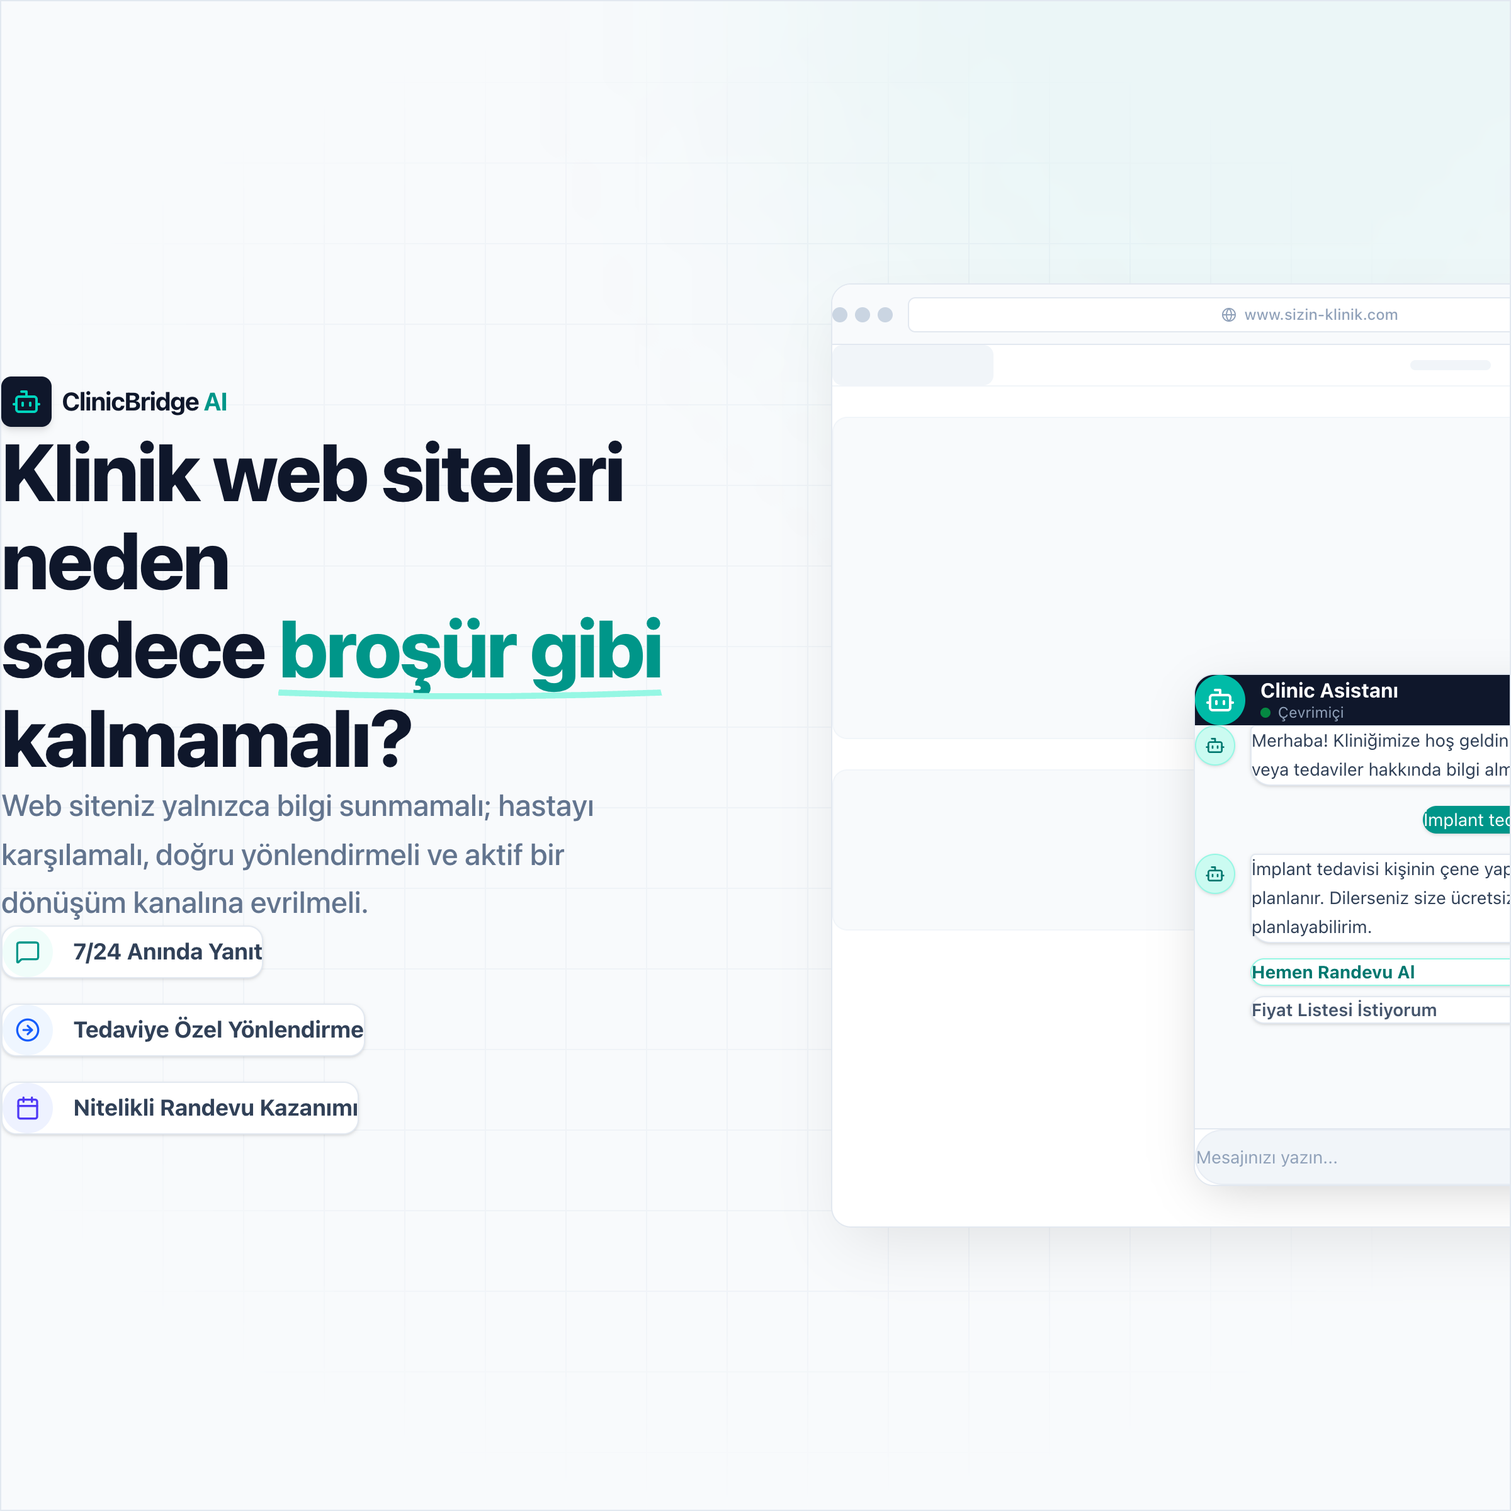
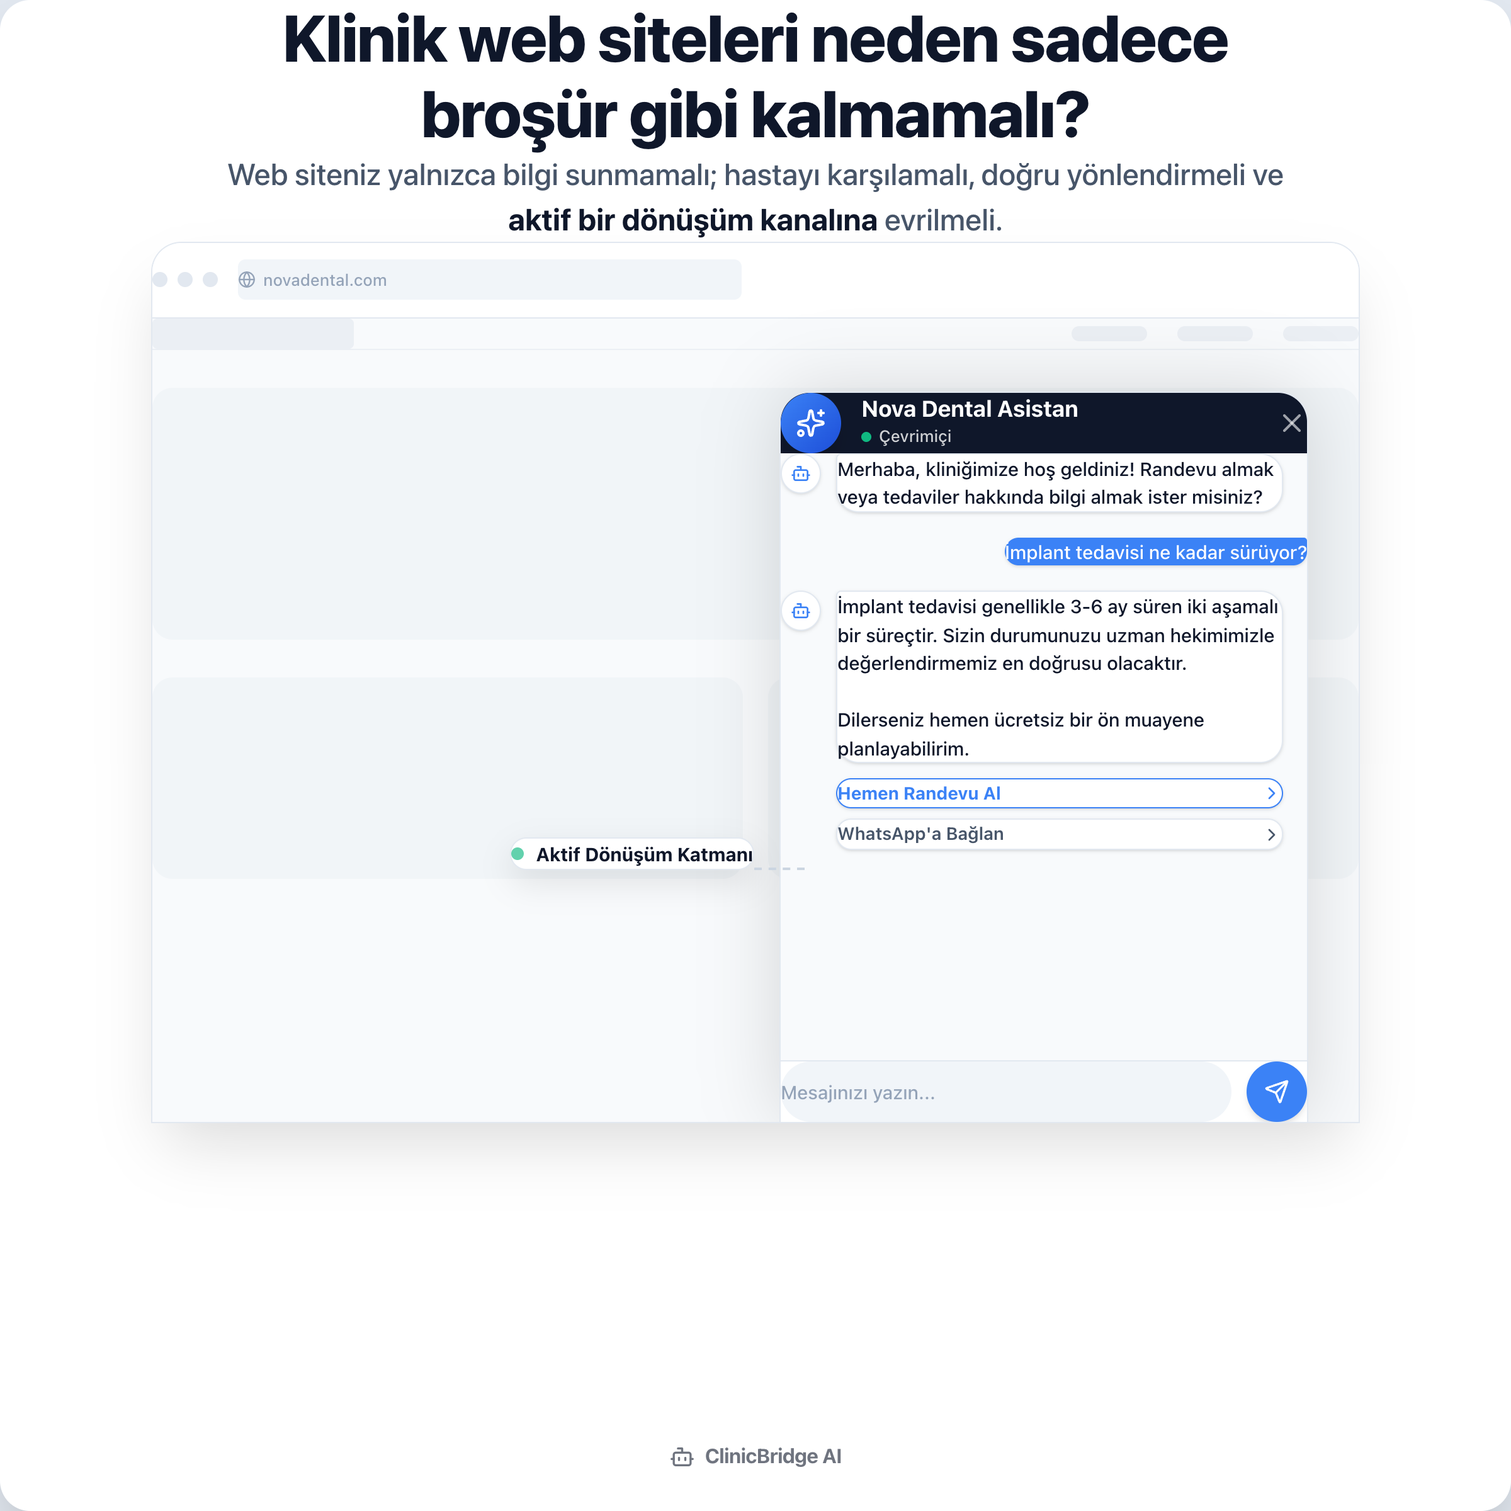
Redesign ClinicBridge AI social posts in clean product-marketing style

diff --git a/app/social-posts/page.tsx b/app/social-posts/page.tsx
@@ -1,183 +1,161 @@
 import React from 'react';
-import { Bot, MessageSquare, Clock, ShieldCheck, ArrowRight, Calendar, Layout, Search, Users, UserPlus, CheckCircle, Smartphone, Activity, ArrowRightCircle, ChevronRight, X, Send, Menu, Phone, Globe } from 'lucide-react';
+import { Bot, MessageSquare, Clock, ShieldCheck, ArrowRight, Calendar, Layout, Search, Users, UserPlus, CheckCircle, Smartphone, Activity, ArrowRightCircle, ChevronRight, X, Send, Menu, Phone, Globe, Sparkles } from 'lucide-react';
 
 export default function SocialPostsPage() {
   return (
-    <div className="bg-slate-100 min-h-screen p-10 flex flex-col items-center gap-16 font-sans">
+    <div className="bg-slate-200 min-h-screen p-10 flex flex-col items-center gap-16 font-sans">
       
-      {/* POST 1: Broşür Olmayan Web Sitesi - Light Premium SaaS Style */}
-      <div id="post-1" className="w-[1200px] h-[1200px] shrink-0 bg-[#F8FAFC] relative overflow-hidden flex border border-slate-200 shadow-sm">
+      {/* POST 1: Broşür Olmayan Web Sitesi - EXACT TOP-DOWN PRODUCT STYLE */}
+      <div id="post-1" className="w-[1200px] h-[1200px] shrink-0 bg-white relative flex flex-col items-center pt-[100px] rounded-3xl overflow-hidden shadow-2xl">
         
-        {/* Subtle Background Pattern */}
-        <div className="absolute inset-0 bg-[linear-gradient(to_right,#e2e8f0_1px,transparent_1px),linear-gradient(to_bottom,#e2e8f0_1px,transparent_1px)] bg-[size:4rem_4rem] [mask-image:radial-gradient(ellipse_60%_50%_at_50%_50%,#000_70%,transparent_100%)] opacity-40"></div>
-        <div className="absolute -top-[400px] -right-[200px] w-[800px] h-[800px] bg-teal-500/5 rounded-full blur-[100px] pointer-events-none"></div>
-
-        {/* LEFT COLUMN: Content */}
-        <div className="w-[55%] h-full z-10 flex flex-col justify-center pl-20 pr-10">
-          
-          {/* Logo / Brand */}
-          <div className="flex items-center gap-2 mb-10">
-            <div className="w-10 h-10 rounded-lg bg-slate-900 flex items-center justify-center shadow-md">
-              <Bot className="w-6 h-6 text-teal-400" />
-            </div>
-            <span className="text-slate-900 text-[20px] font-bold tracking-tight">ClinicBridge <span className="text-teal-600">AI</span></span>
-          </div>
-
-          {/* Heading */}
-          <h1 className="text-slate-900 text-[64px] font-extrabold leading-[1.1] mb-8 tracking-tight">
-            Klinik web siteleri neden <br/>
-            sadece <span className="text-teal-600 relative">broşür gibi
-              <svg className="absolute w-full h-3 -bottom-1 left-0 text-teal-200" viewBox="0 0 100 10" preserveAspectRatio="none"><path d="M0 5 Q 50 10 100 5" stroke="currentColor" strokeWidth="4" fill="transparent"/></svg>
-            </span> kalmamalı?
+        {/* TOP: Header & Subtitle */}
+        <div className="flex flex-col items-center text-center px-20 z-10 w-full max-w-[1000px]">
+          <h1 className="text-[#0f172a] text-[52px] font-[800] leading-[1.15] tracking-[-1px] mb-6">
+            Klinik web siteleri neden sadece <br/> broşür gibi kalmamalı?
           </h1>
-
-          {/* Description */}
-          <p className="text-slate-500 text-[24px] leading-[1.6] mb-12 font-medium max-w-[500px]">
-            Web siteniz yalnızca bilgi sunmamalı; hastayı karşılamalı, doğru yönlendirmeli ve aktif bir dönüşüm kanalına evrilmeli.
+          <p className="text-[#475569] text-[24px] font-[500] leading-[1.5] max-w-[850px]">
+            Web siteniz yalnızca bilgi sunmamalı; hastayı karşılamalı, doğru yönlendirmeli ve <span className="font-[700] text-[#0f172a]">aktif bir dönüşüm kanalına</span> evrilmeli.
           </p>
+        </div>
 
-          {/* Feature List */}
-          <div className="flex flex-col gap-5">
-            <div className="flex items-center gap-4 bg-white px-5 py-4 rounded-xl border border-slate-200 shadow-sm w-fit">
-              <div className="w-10 h-10 rounded-full bg-teal-50 flex items-center justify-center shrink-0">
-                <MessageSquare className="w-5 h-5 text-teal-600" />
+        {/* BOTTOM: Realistic Product UI Mockups */}
+        <div className="mt-[80px] w-full flex-1 relative flex justify-center items-start">
+          
+          {/* Main Website Mockup */}
+          <div className="w-[960px] h-[700px] bg-[#f8fafc] rounded-t-[24px] border border-[#e2e8f0] shadow-[0_25px_50px_-12px_rgba(0,0,0,0.15)] flex flex-col relative overflow-hidden">
+            
+            {/* Browser Header */}
+            <div className="h-[60px] bg-white border-b border-[#e2e8f0] flex items-center px-[24px] gap-[16px] shrink-0">
+              <div className="flex gap-[8px]">
+                <div className="w-[12px] h-[12px] rounded-full bg-[#e2e8f0]"></div>
+                <div className="w-[12px] h-[12px] rounded-full bg-[#e2e8f0]"></div>
+                <div className="w-[12px] h-[12px] rounded-full bg-[#e2e8f0]"></div>
               </div>
-              <span className="text-slate-700 font-bold text-lg">7/24 Anında Yanıt</span>
-            </div>
-            <div className="flex items-center gap-4 bg-white px-5 py-4 rounded-xl border border-slate-200 shadow-sm w-fit">
-              <div className="w-10 h-10 rounded-full bg-blue-50 flex items-center justify-center shrink-0">
-                <ArrowRightCircle className="w-5 h-5 text-blue-600" />
+              <div className="flex-1 max-w-[400px] bg-[#f1f5f9] h-[32px] rounded-[6px] flex items-center px-[16px]">
+                <span className="text-[#94a3b8] text-[13px] font-[500] flex items-center gap-[6px]">
+                  <Globe className="w-[14px] h-[14px]"/> novadental.com
+                </span>
               </div>
-              <span className="text-slate-700 font-bold text-lg">Tedaviye Özel Yönlendirme</span>
             </div>
-            <div className="flex items-center gap-4 bg-white px-5 py-4 rounded-xl border border-slate-200 shadow-sm w-fit">
-              <div className="w-10 h-10 rounded-full bg-indigo-50 flex items-center justify-center shrink-0">
-                <Calendar className="w-5 h-5 text-indigo-600" />
+
+            {/* Faint Website Content Background */}
+            <div className="flex-1 p-[40px] flex flex-col gap-[30px] opacity-[0.3]">
+              <div className="flex justify-between items-center pb-[20px] border-b border-[#cbd5e1]">
+                <div className="w-[160px] h-[24px] bg-[#cbd5e1] rounded-[4px]"></div>
+                <div className="flex gap-[24px]">
+                  <div className="w-[60px] h-[12px] bg-[#cbd5e1] rounded-full"></div>
+                  <div className="w-[60px] h-[12px] bg-[#cbd5e1] rounded-full"></div>
+                  <div className="w-[60px] h-[12px] bg-[#cbd5e1] rounded-full"></div>
+                </div>
               </div>
-              <span className="text-slate-700 font-bold text-lg">Nitelikli Randevu Kazanımı</span>
+              <div className="w-full h-[200px] bg-[#e2e8f0] rounded-[16px]"></div>
+              <div className="flex gap-[20px]">
+                <div className="flex-1 h-[160px] bg-[#e2e8f0] rounded-[16px]"></div>
+                <div className="flex-1 h-[160px] bg-[#e2e8f0] rounded-[16px]"></div>
+              </div>
             </div>
+
+            {/* THE AI LAYER (Realistic ClinicBridge Widget) */}
+            <div className="absolute right-[40px] bottom-0 w-[420px] h-[580px] bg-white rounded-t-[24px] shadow-[0_0_60px_rgba(0,0,0,0.15)] border border-[#e2e8f0] border-b-0 flex flex-col overflow-hidden z-20">
+              
+              {/* Widget Header */}
+              <div className="bg-[#0f172a] p-[24px] flex items-center justify-between">
+                <div className="flex items-center gap-[16px]">
+                  <div className="w-[48px] h-[48px] bg-[linear-gradient(135deg,#3b82f6,#1d4ed8)] rounded-full flex items-center justify-center shadow-lg">
+                    <Sparkles className="w-[24px] h-[24px] text-white" />
+                  </div>
+                  <div>
+                    <h3 className="text-white font-[700] text-[18px] leading-tight">Nova Dental Asistan</h3>
+                    <p className="text-white/80 text-[13px] flex items-center gap-[6px] mt-[4px] font-[500]">
+                      <span className="w-[8px] h-[8px] bg-[#10b981] rounded-full inline-block"></span>
+                      Çevrimiçi
+                    </p>
+                  </div>
+                </div>
+                <X className="w-[24px] h-[24px] text-white/60" />
+              </div>
+
+              {/* Chat Body */}
+              <div className="flex-1 bg-[#f8fafc] p-[24px] flex flex-col gap-[20px] overflow-hidden">
+                
+                {/* AI Welcome Message */}
+                <div className="flex gap-[12px]">
+                  <div className="w-[32px] h-[32px] rounded-full bg-white border border-[#e2e8f0] flex items-center justify-center shrink-0 shadow-sm mt-1">
+                    <Bot className="w-[16px] h-[16px] text-[#3b82f6]" />
+                  </div>
+                  <div className="bg-white border border-[#e2e8f0] px-[16px] py-[14px] rounded-[18px] rounded-tl-[4px] text-[#0f172a] text-[15px] shadow-sm leading-[1.5] max-w-[85%] font-[500]">
+                    Merhaba, kliniğimize hoş geldiniz! Randevu almak veya tedaviler hakkında bilgi almak ister misiniz?
+                  </div>
+                </div>
+
+                {/* Patient Question */}
+                <div className="flex gap-[12px] self-end max-w-[85%]">
+                  <div className="bg-[#3b82f6] px-[16px] py-[14px] rounded-[18px] rounded-tr-[4px] text-white text-[15px] shadow-sm leading-[1.5] font-[500]">
+                    İmplant tedavisi ne kadar sürüyor?
+                  </div>
+                </div>
+
+                {/* AI Response & Action */}
+                <div className="flex gap-[12px]">
+                  <div className="w-[32px] h-[32px] rounded-full bg-white border border-[#e2e8f0] flex items-center justify-center shrink-0 shadow-sm mt-1">
+                    <Bot className="w-[16px] h-[16px] text-[#3b82f6]" />
+                  </div>
+                  <div className="flex flex-col gap-[12px] max-w-[85%]">
+                    <div className="bg-white border border-[#e2e8f0] px-[16px] py-[14px] rounded-[18px] rounded-tl-[4px] text-[#0f172a] text-[15px] shadow-sm leading-[1.5] font-[500]">
+                      İmplant tedavisi genellikle 3-6 ay süren iki aşamalı bir süreçtir. Sizin durumunuzu uzman hekimimizle değerlendirmemiz en doğrusu olacaktır.
+                      <br/><br/>
+                      Dilerseniz hemen ücretsiz bir ön muayene planlayabilirim.
+                    </div>
+                    
+                    {/* Interactive CTA Buttons inside chat */}
+                    <div className="flex flex-col gap-[8px]">
+                      <div className="bg-white border border-[#3b82f6] text-[#3b82f6] px-[16px] py-[12px] rounded-[12px] text-[14px] font-[700] shadow-sm flex items-center justify-between hover:bg-[#eff6ff] transition-colors cursor-pointer">
+                        Hemen Randevu Al <ChevronRight className="w-[16px] h-[16px]"/>
+                      </div>
+                      <div className="bg-white border border-[#e2e8f0] text-[#475569] px-[16px] py-[12px] rounded-[12px] text-[14px] font-[600] shadow-sm flex items-center justify-between hover:bg-[#f8fafc] transition-colors cursor-pointer">
+                        WhatsApp'a Bağlan <ChevronRight className="w-[16px] h-[16px]"/>
+                      </div>
+                    </div>
+                  </div>
+                </div>
+
+              </div>
+
+              {/* Input Area */}
+              <div className="p-[20px] border-t border-[#e2e8f0] bg-white flex items-center gap-[12px]">
+                <div className="flex-1 bg-[#f1f5f9] rounded-full h-[48px] px-[20px] flex items-center text-[#94a3b8] text-[15px] font-[500]">
+                  Mesajınızı yazın...
+                </div>
+                <div className="w-[48px] h-[48px] bg-[#3b82f6] rounded-full flex items-center justify-center shrink-0 shadow-md">
+                  <Send className="w-[20px] h-[20px] text-white ml-[2px]" />
+                </div>
+              </div>
+
+            </div>
+
+            {/* "ClinicBridge AI Katmanı" floating label to explain the context */}
+            <div className="absolute right-[480px] bottom-[200px] z-30">
+               <div className="bg-white px-[20px] py-[12px] rounded-full shadow-[0_10px_25px_rgba(0,0,0,0.1)] border border-[#e2e8f0] flex items-center gap-[10px]">
+                 <div className="w-[10px] h-[10px] bg-[#10b981] rounded-full animate-pulse"></div>
+                 <span className="text-[#0f172a] font-[700] text-[15px]">Aktif Dönüşüm Katmanı</span>
+               </div>
+               {/* Line pointing to widget */}
+               <div className="absolute right-[-40px] top-[24px] w-[40px] border-t-2 border-dashed border-[#cbd5e1]"></div>
+            </div>
+
           </div>
 
         </div>
 
-
-        {/* RIGHT COLUMN: Product Mockup */}
-        <div className="w-[45%] h-full z-10 relative flex items-center">
-          
-          {/* Floating Browser Window Mockup */}
-          <div className="absolute left-0 top-1/2 -translate-y-1/2 w-[700px] h-[750px] bg-white rounded-l-2xl border border-slate-200 border-r-0 shadow-[0_20px_50px_-12px_rgba(0,0,0,0.1)] flex flex-col overflow-hidden">
-            
-            {/* Browser Header */}
-            <div className="h-12 bg-slate-50 border-b border-slate-200 flex items-center px-4 gap-3 shrink-0">
-              <div className="flex gap-1.5">
-                <div className="w-3 h-3 rounded-full bg-slate-300"></div>
-                <div className="w-3 h-3 rounded-full bg-slate-300"></div>
-                <div className="w-3 h-3 rounded-full bg-slate-300"></div>
-              </div>
-              <div className="flex-1 bg-white border border-slate-200 h-7 rounded-md flex items-center justify-center">
-                <span className="text-slate-400 text-xs font-medium flex items-center gap-1.5"><Globe className="w-3 h-3"/> www.sizin-klinik.com</span>
-              </div>
-            </div>
-
-            {/* Wireframe Website Content */}
-            <div className="flex-1 p-8 flex flex-col gap-6 relative">
-              <div className="flex justify-between items-center pb-4 border-b border-slate-100">
-                <div className="w-32 h-8 bg-slate-100 rounded-lg"></div>
-                <div className="flex gap-4">
-                  <div className="w-16 h-2 bg-slate-100 rounded-full"></div>
-                  <div className="w-16 h-2 bg-slate-100 rounded-full"></div>
-                  <div className="w-20 h-2 bg-slate-100 rounded-full"></div>
-                </div>
-              </div>
-              <div className="w-full h-64 bg-slate-50 rounded-xl border border-slate-100"></div>
-              <div className="flex gap-4">
-                <div className="flex-1 h-32 bg-slate-50 rounded-xl border border-slate-100"></div>
-                <div className="flex-1 h-32 bg-slate-50 rounded-xl border border-slate-100"></div>
-              </div>
-
-              {/* ClinicBridge AI Widget - Highly Realistic */}
-              <div className="absolute right-8 bottom-8 w-[380px] bg-white rounded-2xl shadow-[0_10px_40px_-10px_rgba(0,0,0,0.2)] border border-slate-200 overflow-hidden flex flex-col z-30">
-                
-                {/* Widget Header */}
-                <div className="bg-slate-900 p-4 flex items-center justify-between">
-                  <div className="flex items-center gap-3">
-                    <div className="w-10 h-10 bg-teal-500 rounded-full flex items-center justify-center">
-                      <Bot className="w-6 h-6 text-white" />
-                    </div>
-                    <div>
-                      <h3 className="text-white font-bold text-base leading-tight">Clinic Asistanı</h3>
-                      <p className="text-slate-400 text-xs flex items-center gap-1.5 mt-0.5">
-                        <span className="w-2 h-2 bg-green-500 rounded-full inline-block animate-pulse"></span>
-                        Çevrimiçi
-                      </p>
-                    </div>
-                  </div>
-                  <X className="w-5 h-5 text-slate-400" />
-                </div>
-
-                {/* Chat Body */}
-                <div className="p-5 bg-slate-50 flex flex-col gap-4 h-[320px]">
-                  
-                  {/* AI Message */}
-                  <div className="flex gap-3">
-                    <div className="w-8 h-8 rounded-full bg-teal-100 flex items-center justify-center shrink-0 shadow-sm border border-teal-200">
-                      <Bot className="w-4 h-4 text-teal-700" />
-                    </div>
-                    <div className="bg-white border border-slate-200 px-4 py-3 rounded-2xl rounded-tl-sm text-slate-700 text-[14px] shadow-sm leading-relaxed">
-                      Merhaba! Kliniğimize hoş geldiniz. Randevu almak veya tedaviler hakkında bilgi almak ister misiniz?
-                    </div>
-                  </div>
-
-                  {/* Patient Message */}
-                  <div className="flex gap-3 self-end max-w-[85%]">
-                    <div className="bg-teal-600 px-4 py-3 rounded-2xl rounded-tr-sm text-white text-[14px] shadow-sm leading-relaxed">
-                      İmplant tedavisi fiyatları nedir?
-                    </div>
-                  </div>
-
-                  {/* AI Response with Actions */}
-                  <div className="flex gap-3">
-                    <div className="w-8 h-8 rounded-full bg-teal-100 flex items-center justify-center shrink-0 shadow-sm border border-teal-200">
-                      <Bot className="w-4 h-4 text-teal-700" />
-                    </div>
-                    <div className="flex flex-col gap-3">
-                      <div className="bg-white border border-slate-200 px-4 py-3 rounded-2xl rounded-tl-sm text-slate-700 text-[14px] shadow-sm leading-relaxed">
-                        İmplant tedavisi kişinin çene yapısına göre planlanır. Dilerseniz size ücretsiz bir ön muayene planlayabilirim.
-                      </div>
-                      
-                      {/* Action Cards inside Chat */}
-                      <div className="flex flex-col gap-2 w-[240px]">
-                        <div className="bg-white border border-teal-200 hover:border-teal-400 text-teal-700 px-4 py-2.5 rounded-xl text-sm font-bold shadow-sm flex items-center justify-between cursor-pointer">
-                          Hemen Randevu Al <ChevronRight className="w-4 h-4"/>
-                        </div>
-                        <div className="bg-white border border-slate-200 hover:border-slate-300 text-slate-600 px-4 py-2.5 rounded-xl text-sm font-semibold shadow-sm flex items-center justify-between cursor-pointer">
-                          Fiyat Listesi İstiyorum <ChevronRight className="w-4 h-4"/>
-                        </div>
-                      </div>
-                    </div>
-                  </div>
-
-                </div>
-
-                {/* Input Area */}
-                <div className="p-3 border-t border-slate-200 bg-white flex items-center gap-3">
-                  <div className="flex-1 bg-slate-100 rounded-full h-11 px-4 flex items-center text-slate-400 text-sm border border-slate-200/60">
-                    Mesajınızı yazın...
-                  </div>
-                  <div className="w-11 h-11 bg-teal-600 rounded-full flex items-center justify-center shrink-0 shadow-md">
-                    <Send className="w-5 h-5 text-white ml-0.5" />
-                  </div>
-                </div>
-
-              </div>
-
-            </div>
-          </div>
+        {/* Minimal Footer Logo */}
+        <div className="absolute bottom-[30px] left-1/2 -translate-x-1/2 flex items-center gap-[8px] opacity-[0.6]">
+          <Bot className="w-[20px] h-[20px] text-[#0f172a]" />
+          <span className="text-[#0f172a] font-[700] text-[16px] tracking-tight">ClinicBridge AI</span>
         </div>
 
       </div>
 
-      {/* POST 2 (Hidden for now) */}
+      {/* OTHER POSTS (Hidden) */}
       <div id="post-2" className="hidden"></div>
       <div id="post-3" className="hidden"></div>
       <div id="post-4" className="hidden"></div>
